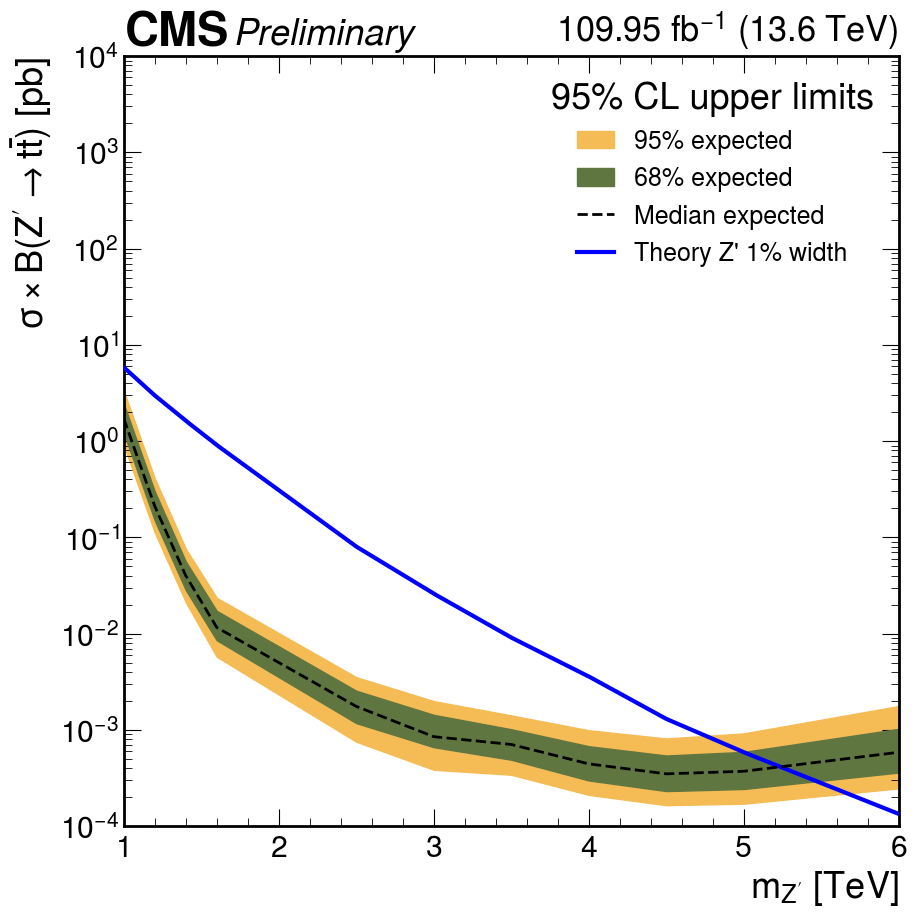
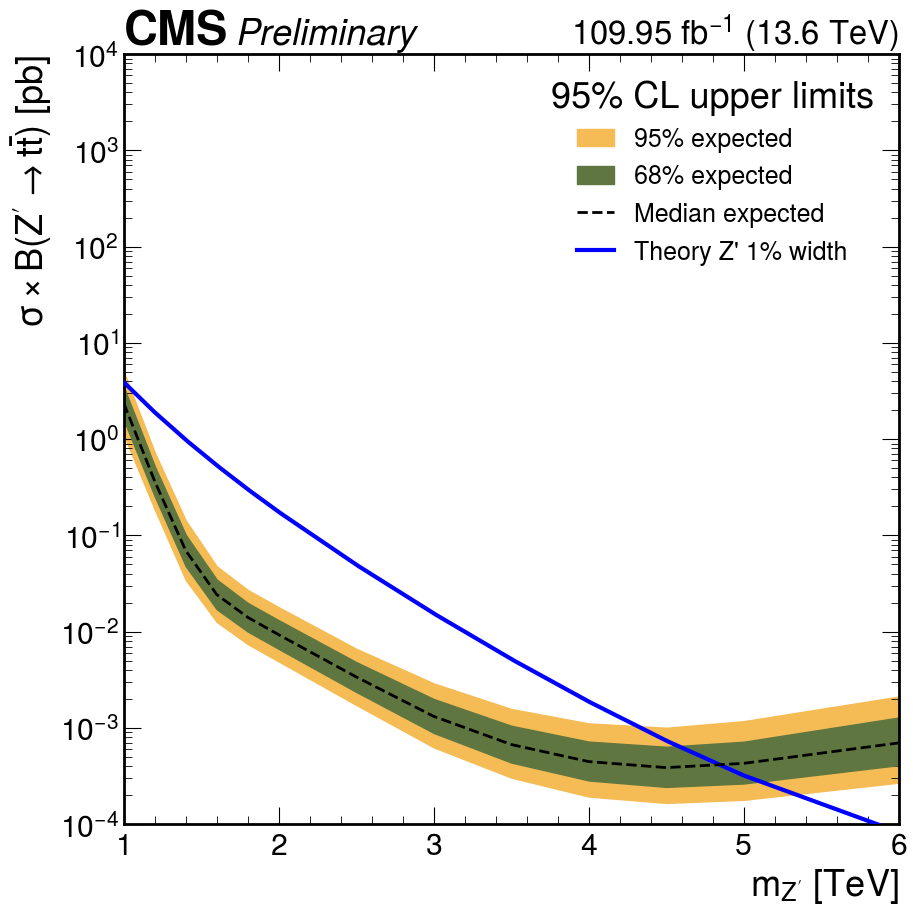
meetings: add 2026-06-25 meeting page (tagger / topcolor / 2024 10-30% / 2025)
- new docs/meetings/2026-06-25.md: recombination top-tagger proposal
  (baseline formula vs per-pT logistic weights + ROC), MadGraph topcolor
  sigma×B and why the "Par" masses are the wrong overlay, 2024 10/30%
  blinded crossings, 2025 + combined fit (F-test, cen2025 Data/MC postfit projY)
- figures under assets/meetings/2026-06-25/ (topcolor overlay, cen2025 postfit)
- update recents.md + all.md with the June meeting and refreshed action items
- include in-flight 2024 results figures/edits (10/30% limits, results.md)

diff --git a/docs/analysis/results.md b/docs/analysis/results.md
@@ -5,10 +5,11 @@
 Collect result-facing material only after selections, validation, background
 estimation, and systematic assumptions have a stable reviewed configuration.
 
-!!! info "Blinded expected result (2026-06-18)"
-    First end-to-end 2024 result: combined central + forward, transfer-function
-    order `2x1`, **blinded** (expected-only). Dataset 109.95 fb⁻¹ (13.6 TeV),
-    ZPrime → t̄t at 1% width.
+!!! info "Blinded expected result (2026-06-21, corrected)"
+    Combined central + forward, transfer-function order `2x1`, **blinded**
+    (expected-only). Dataset 109.95 fb⁻¹ (13.6 TeV), ZPrime → t̄t at 1% width.
+    The expected limit is now built from a **data-driven sideband-fit Asimov**
+    (see the note below); this supersedes the 2026-06-18 figure of ≈ 5.32 TeV.
 
 ## Current Status
 
@@ -16,17 +17,18 @@ estimation, and systematic assumptions have a stable reviewed configuration.
 | --- | --- |
 | 2024 background fit | Central and forward, order `2x1`, passing goodness-of-fit |
 | Transfer-function choice | **Selected: central `2x1`, forward `2x1`** (F-test) |
-| Combined limit | **Blinded expected, available below** |
+| Combined limit | **Blinded expected (snapshot Asimov), available below** |
 | Impacts | Blinded Asimov, available below |
-| Systematic inputs | Placeholder 2024 top-tag SF (0.90/tag); to be measured |
+| Systematic inputs | Placeholder 2024 top-tag SF (0.90/tag); only ~2 of ~8 systematics in the limit card yet |
 | Observed result | **Not unblinded** |
 
 ## Blinded Expected Limits
 
 Combined central + forward 95% CL upper limits on the ZPrime (1% width)
 production cross section, blinded (expected median and ±1σ/±2σ bands). The
-theory crosses the median expected limit at **≈ 5.32 TeV**, i.e. the expected
-exclusion reach is about 5.3 TeV.
+theory crosses the median expected limit at **≈ 4.84 TeV**, i.e. the expected
+exclusion reach is about 4.8 TeV. The bands are smooth and monotone across the
+full 1–6 TeV grid.
 
 ![ZPrime 1% width blinded expected limits](../assets/analysis/results/2024/limits_zprime_1pct.png)
 
@@ -36,13 +38,46 @@ exclusion reach is about 5.3 TeV.
 | Categories | central + forward, combined |
 | Transfer function | `2x1` (both) |
 | Mass range | 1–6 TeV (m_tt window ends at 6.5 TeV) |
-| Expected exclusion | ≈ 5.32 TeV (+0.28 / −0.32) |
+| Expected exclusion | ≈ 4.84 TeV |
 | Blinding | blinded (expected only) |
 
+!!! warning "Why the number changed (5.32 → 4.84 TeV)"
+    The earlier expected limit built its Asimov ("expected") dataset from the
+    **prefit** transfer function — i.e. before the TF was fit to the data
+    sidebands. For a data-driven QCD estimate that prefit TF is optimistically
+    biased, which both **inflated the expected reach** and produced unstable
+    median/−σ bands at 1.8–3.5 TeV (the reason the 1.8/2.0 TeV points were
+    previously dropped). The corrected procedure fits the background-only model to
+    data with the Pass signal window **masked** (so the analysis stays blinded),
+    saves that postfit **snapshot**, and builds the Asimov from it. The result is
+    the honest reach **≈ 4.84 TeV** with clean bands and **all mass points
+    recovered**, consistent with the independent 1D cross-check (≈ 4.5 TeV ≈ Run-2).
+
 !!! note "Mass coverage"
-    The 1.8 and 2.0 TeV points are omitted (point-specific instability in the
-    asymptotic −2σ band) and will be recovered with toy-based limits. Masses
+    All 13 mass points 1–6 TeV are now present (1.8/2.0 TeV recovered). Masses
     above ~6.5 TeV are outside the m_tt fit window.
+
+## Wider widths (10% and 30%)
+
+The same combined cen+fwd, `2x1`, blinded snapshot-Asimov chain, for the 10% and
+30% width benchmarks. The expected reach grows with width (a wider resonance has a
+larger production cross section), with clean bands across the grid.
+
+| Width | Expected exclusion |
+| --- | --- |
+| 1% | ≈ 4.84 TeV |
+| 10% | ≈ 5.91 TeV |
+| 30% | > 6 TeV (limit stays below theory across 1–6 TeV; reach beyond the grid edge) |
+
+![ZPrime 10% width blinded expected limits](../assets/analysis/results/2024/limits_zprime_10pct.png)
+
+![ZPrime 30% width blinded expected limits](../assets/analysis/results/2024/limits_zprime_30pct.png)
+
+!!! note "10/30 normalization"
+    The 10/30 signal templates are scaled per mass by their theory σ so the limit
+    fit stays numerically well-conditioned (signal strength r ~ O(1)); the plotted
+    σ×B|95 is independent of that scale. A single fixed-fb scale was found to break
+    the asymptotic band calculation at low mass and is not used.
 
 ## Impacts
 
@@ -78,8 +113,11 @@ Each future result entry should state:
 
 ## Current Takeaway
 
-The 2024 analysis has a complete **blinded** result chain: selected `2x1`
-transfer functions, passing goodness-of-fit, a combined expected limit reaching
-**≈ 5.3 TeV**, and a well-behaved impact ranking. Remaining before a final
-result: a measured 2024 top-tag scale factor, recovery of the 1.8/2.0 TeV
-points, full systematics, and unblinding approval.
+The 2024 analysis has a complete **blinded** result chain for all three widths:
+selected `2x1` transfer functions, passing goodness-of-fit, combined expected
+limits with clean ±1σ/±2σ bands across the full mass grid (**1% ≈ 4.84 TeV,
+10% ≈ 5.91 TeV, 30% > 6 TeV**), and a well-behaved impact ranking. The expected
+limits use a data-driven sideband-fit (snapshot) Asimov, which removed the earlier
+band instability and an optimistic bias in the reach. Remaining before a final
+result: propagating the full systematics into the limit card (only ~2 of ~8 enter
+today), a measured 2024 top-tag scale factor, and unblinding approval.

diff --git a/docs/meetings/2026-06-25.md b/docs/meetings/2026-06-25.md
@@ -1,0 +1,92 @@
+# Tagger Recombination, Topcolor σ×B, 2024 10/30%, 2025 Added
+
+## Date
+
+2026-06-25
+
+## Source
+
+`research-notes/meetings/ttbarhad/2026/06/meeting_2026_06_25_thu.md`
+
+## Presented
+
+### 1. Low event count — under investigation
+
+- Now operating at **0.5% mistag** (`tight`), changed from **1%** (`medium`).
+- Event counts went **down**; cause still being investigated.
+
+### 2. GloParTv3 — proposal to use the recombination top-tagger
+
+Reference: [CMS GlobalParT TWiki](https://twiki.cern.ch/twiki/bin/view/CMS/GlobalParT).
+Switch the boosted-top tag from the fixed baseline ratio to a learned recombination.
+
+Baseline — one fixed ratio of the heads:
+
+$$D_{\mathrm{top}}=\frac{P_{\mathrm{TopbWqq}}+P_{\mathrm{TopbWq}}}{P_{\mathrm{TopbWqq}}+P_{\mathrm{TopbWq}}+P_{\mathrm{QCD}}}$$
+
+Recombination — learned, **per-$p_T$** logistic weights over all 7 heads:
+
+$$s=\sigma\!\Big(B_0(p_T)+\textstyle\sum_k A_k(p_T)\,\log(\mathrm{head}_k+\varepsilon)\Big)$$
+
+It adds weight on the heavy-flavour $X$ heads and an asymmetric `TopbWqq:TopbWq`
+split (the baseline forces 1:1, QCD-only denominator), giving **+3–4% absolute
+signal efficiency at the same 0.5% QCD mistag** while staying mass-decorrelated.
+
+![ROC of signal top efficiency versus QCD mistag in three boosted pT windows, baseline versus logistic recombination, 0.5% working point marked](../assets/analysis/recomb-top-tagger/roc_by_pt.png)
+
+### 3. Topcolor σ×B (MadGraph) — why the "Par" masses are wrong
+
+13.6 TeV leptophobic-topcolor (Harris–Jain Model IV) scan, MG5 2.9.27 + `topBSM_UFO`.
+
+- The official **"Par" sample cross section is the wrong overlay**: its width is
+  **hand-set**, so σ×B **∝ 1/width**. The real topcolor benchmark has σ×B
+  **∝ width**, with steep finite-width high-mass growth.
+- The MadGraph topcolor absolute sits **~3–5× below** the Par values at every width.
+
+| Width | ratio-anchored crossing | pure topcolor crossing |
+| --- | --- | --- |
+| 1% | 4.84 TeV | 4.25 TeV |
+| 10% | 5.73 TeV | 5.09 TeV |
+| 30% | 7.08 TeV | 5.92 TeV |
+
+![Z′ 1% σ×B 95% CL limit overlaid with XSDB-Par theory crossing 4.84 TeV and pure MadGraph topcolor crossing 4.25 TeV](../assets/meetings/2026-06-25/topcolor-overlay-1pct.png)
+
+### 4. 2024 — 10% and 30% Z′ (blinded, snapshot Asimov)
+
+Both widths now cross (ratio-anchored): **10% ≈ 5.73 TeV**, **30% ≈ 7.08 TeV**.
+
+![Z′ 10% width 2024 blinded expected 95% CL upper limit, clean bands](../assets/analysis/results/2024/limits_zprime_10pct.png)
+
+![Z′ 30% width 2024 blinded expected 95% CL upper limit, reach beyond 6 TeV](../assets/analysis/results/2024/limits_zprime_30pct.png)
+
+### 5. 2025 added (and combined 2024+2025)
+
+Real 2025 data eras C–G (**110.59 fb⁻¹**) + 2024 MC lumi-scaled ×1.00582, recomb tagger.
+
+- **F-test:** `fwd2025 = 2×1` confirmed; `cen2025` degenerate (no order beats 0×0,
+  confounded by the central tt̄ over-normalization) — held at 2×2.
+- **Combined `cen2425`** converges after loosening the tt̄ rate prior 20% → 30%.
+- Preliminary blinded r₉₅ (ZPrime4000): cen2025 0.27, fwd2025 0.44,
+  **cen2425 0.167** — combining 2024+2025 tightens the central reach.
+
+![2025 central background-only postfit m_tt projection, Fail top and Pass bottom in three m_t slices, data versus tt̄ plus QCD from the transfer function](../assets/meetings/2026-06-25/cen2025-datamc-postfit-projy.png)
+
+> The 2025 postfit projection still carries the pre-fix `138 fb⁻¹ (13 TeV)`
+> placeholder label; the actual 2025 luminosity is 110.59 fb⁻¹ at 13.6 TeV
+> (plotter label fixed afterward).
+
+## Decisions And Requests
+
+- Adopt the GloParTv3 recombination tagger as the default boosted-top tag (+3–4% eff).
+- Settle the topcolor overlay anchoring (ratio-anchored vs pure topcolor) via a
+  Run-2 reproduction test.
+
+## Action Items
+
+| Item | Status |
+| --- | --- |
+| Track down the 0.5%-mistag event-count drop | In progress |
+| Switch tag to recombination tagger by default | Open |
+| Resolve topcolor overlay anchoring (Run-2 reproduction test) | Open |
+| Full combined 2024+2025 mass scan | Open |
+| Re-run 2025 cen F-test after over-normalization fix | Open |

diff --git a/docs/meetings/recents.md b/docs/meetings/recents.md
@@ -2,12 +2,13 @@
 
 ## Last Updated
 
-2026-04-17
+2026-06-25
 
 ## Recent Meetings
 
 | Date | Meeting | Main Outcome |
 | --- | --- | --- |
+| 2026-06-25 | [Tagger recombination, topcolor σ×B, 2024 10/30%, 2025 added](2026-06-25.md) | Proposed the recombination top-tagger (+3–4% eff); MadGraph topcolor σ×B (why "Par" masses are wrong); 2024 10/30% crossings; 2025 + combined fit wired |
 | 2026-04-16 | [Run-3 top tagger and QCD sample follow-up](2026-04-16.md) | Identified old Run-2 pass/fail score usage and pointed to the GlobalParT3 discriminator definition |
 | 2026-04-09 | [Jet-mass dependence checks](2026-04-09.md) | Studied jet mass versus eta, nearby jets, and dataset; requested matching-order and subjet-mass follow-ups |
 | 2026-04-02 | [Gen-reco top mass and topology study](2026-04-02.md) | Reviewed first signal-only gen-reco mass plots and set topology-category follow-ups |
@@ -16,11 +17,11 @@
 
 | Item | Owner | Status |
 | --- | --- | --- |
-| Re-run data control-region plots with corrected GlobalParT3 WP thresholds | Aritra | Open |
-| Validate `atcen` and `atfwd` control regions using the data viewer | Aritra | Open |
-| Define and compare `2 AK8` and `2 AK8 + 1 AK4` topology categories | Aritra | Open |
-| Plot category fractions versus `m_tt` | Aritra | Open |
-| Extract generator-level `b` quarks and compute `DeltaR(top, b)` | Aritra | Open |
+| Track down the 0.5%-mistag event-count drop | Aritra | In progress |
+| Switch tag to the recombination tagger by default | Aritra | Open |
+| Resolve topcolor overlay anchoring (Run-2 reproduction test) | Aritra | Open |
+| Full combined 2024+2025 mass scan | Aritra | Open |
+| Re-run 2025 cen F-test after over-normalization fix | Aritra | Open |
 
 ## All Meetings
 

diff --git a/docs/analysis/introduction.md b/docs/analysis/introduction.md
@@ -45,7 +45,8 @@ $m_{t\bar{t}}$.
 
 The full 2024 chain runs end to end **blinded**: transfer-function order selected
 by F-test (`2x1` central and forward), goodness-of-fit passing in both categories,
-and a combined expected exclusion of **~5.3 TeV** for a 1%-width $Z'$. See
+and a combined expected exclusion of **~4.84 TeV** for a 1%-width $Z'$ (built from
+a data-driven sideband-fit Asimov; supersedes an earlier ~5.3 TeV figure). See
 [Background Estimation](background-estimation.md) and [Results](results.md).
 
 Remaining before a final result: a measured 2024 top-tag scale factor, full

diff --git a/docs/meetings/all.md b/docs/meetings/all.md
@@ -6,6 +6,28 @@ Meetings are grouped by year and month. Each meeting has its own page.
 <summary>2026</summary>
 
 <details open>
+<summary>June</summary>
+
+<table>
+  <thead>
+    <tr>
+      <th>Date</th>
+      <th>Meeting</th>
+      <th>Tags</th>
+    </tr>
+  </thead>
+  <tbody>
+    <tr>
+      <td>2026-06-25</td>
+      <td><a href="2026-06-25.md">Tagger recombination, topcolor σ×B, 2024 10/30%, 2025 added</a></td>
+      <td>tagger, topcolor, limits, 2025</td>
+    </tr>
+  </tbody>
+</table>
+
+</details>
+
+<details open>
 <summary>April</summary>
 
 <table>

diff --git a/docs/index.md b/docs/index.md
@@ -29,7 +29,7 @@ estimated from data with a pass/fail transfer function (2DAlphabet).
 | Categories | double-tag pass / antitag fail × central ($\|\Delta y\|<1$) / forward |
 | Background | QCD from data (2DAlphabet, TF order `2x1`); $t\bar{t}$ from MC |
 | Goodness of fit | passing — central $p=0.485$, forward $p=0.180$ (blinded) |
-| Result | blinded expected exclusion **~5.3 TeV** ($Z'$, 1% width) |
+| Result | blinded expected exclusion **~4.84 TeV** ($Z'$, 1% width) |
 | Pending | measured 2024 top-tag SF, full systematics, unblinding |
 
 ## Notes For Presenters
